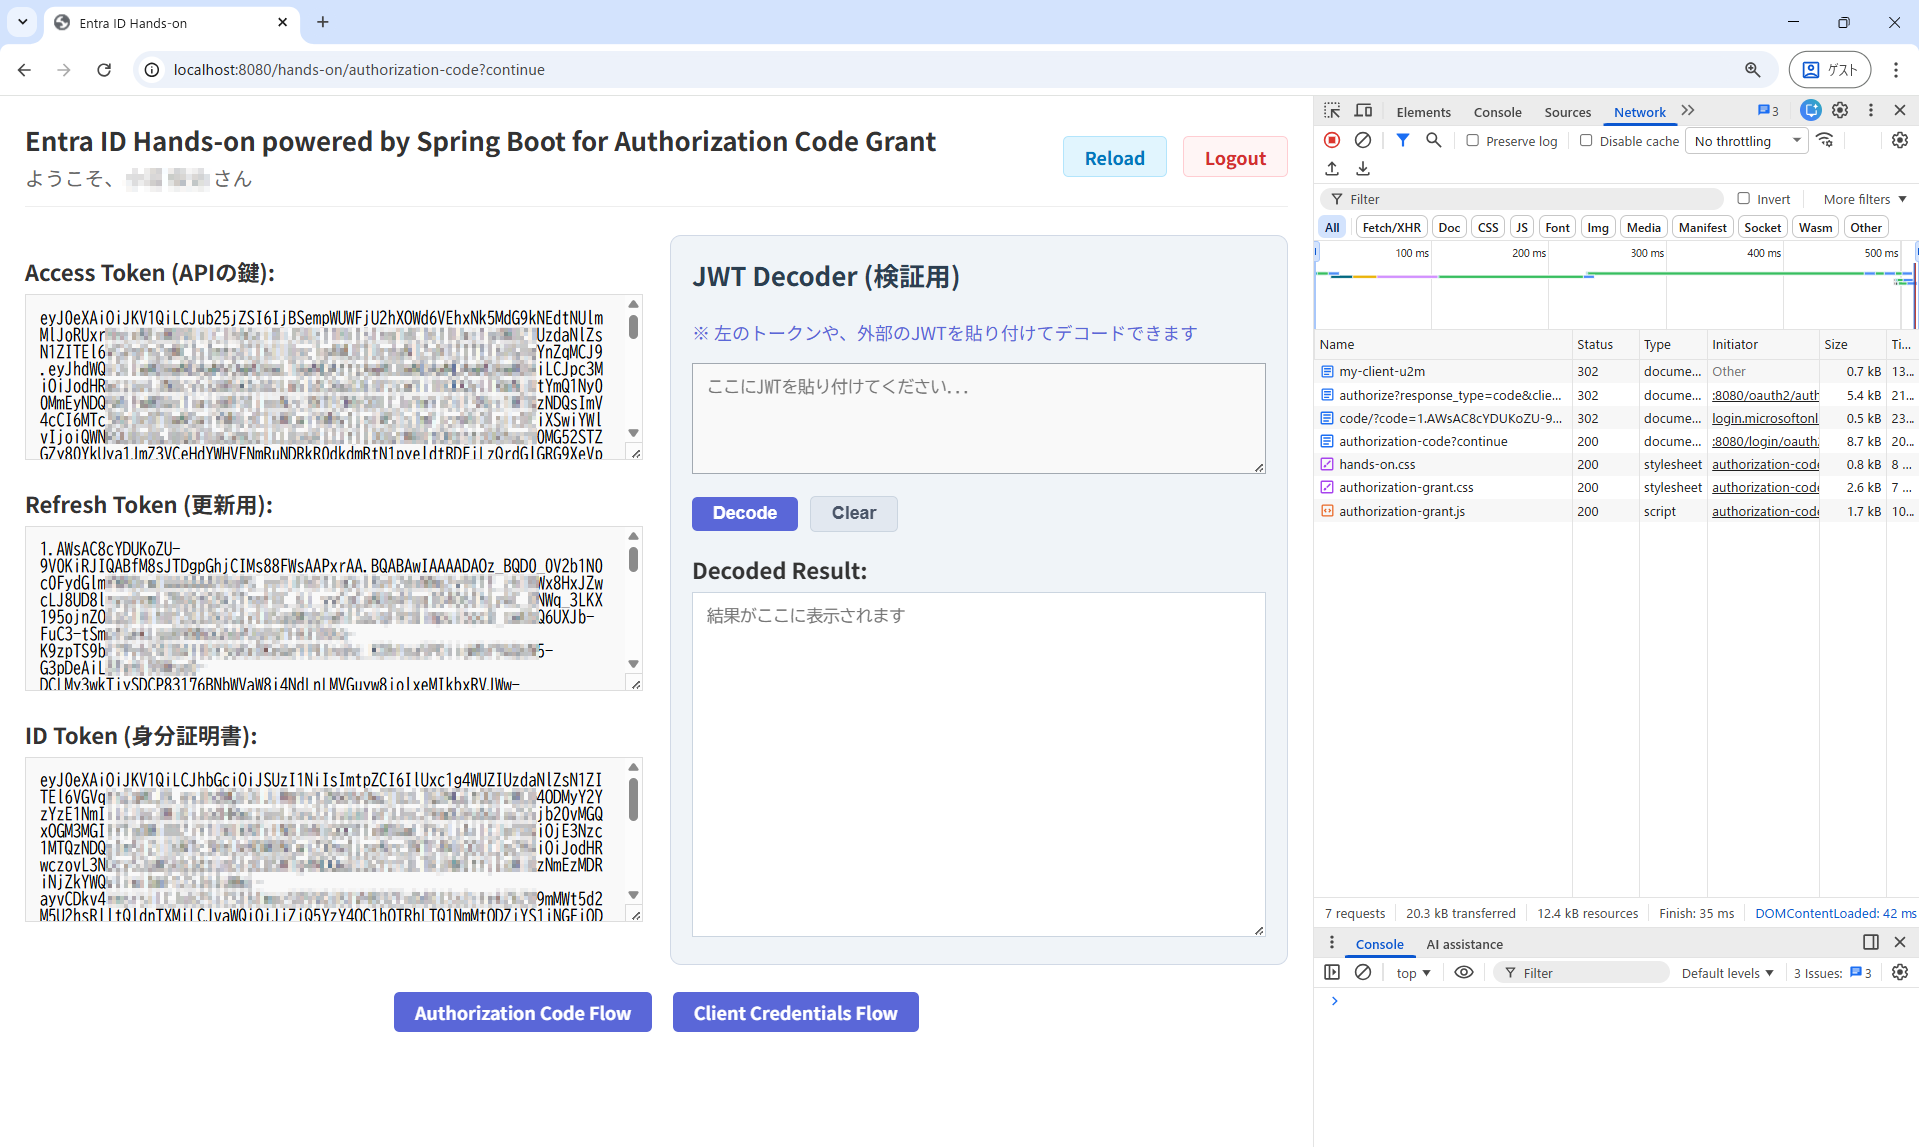
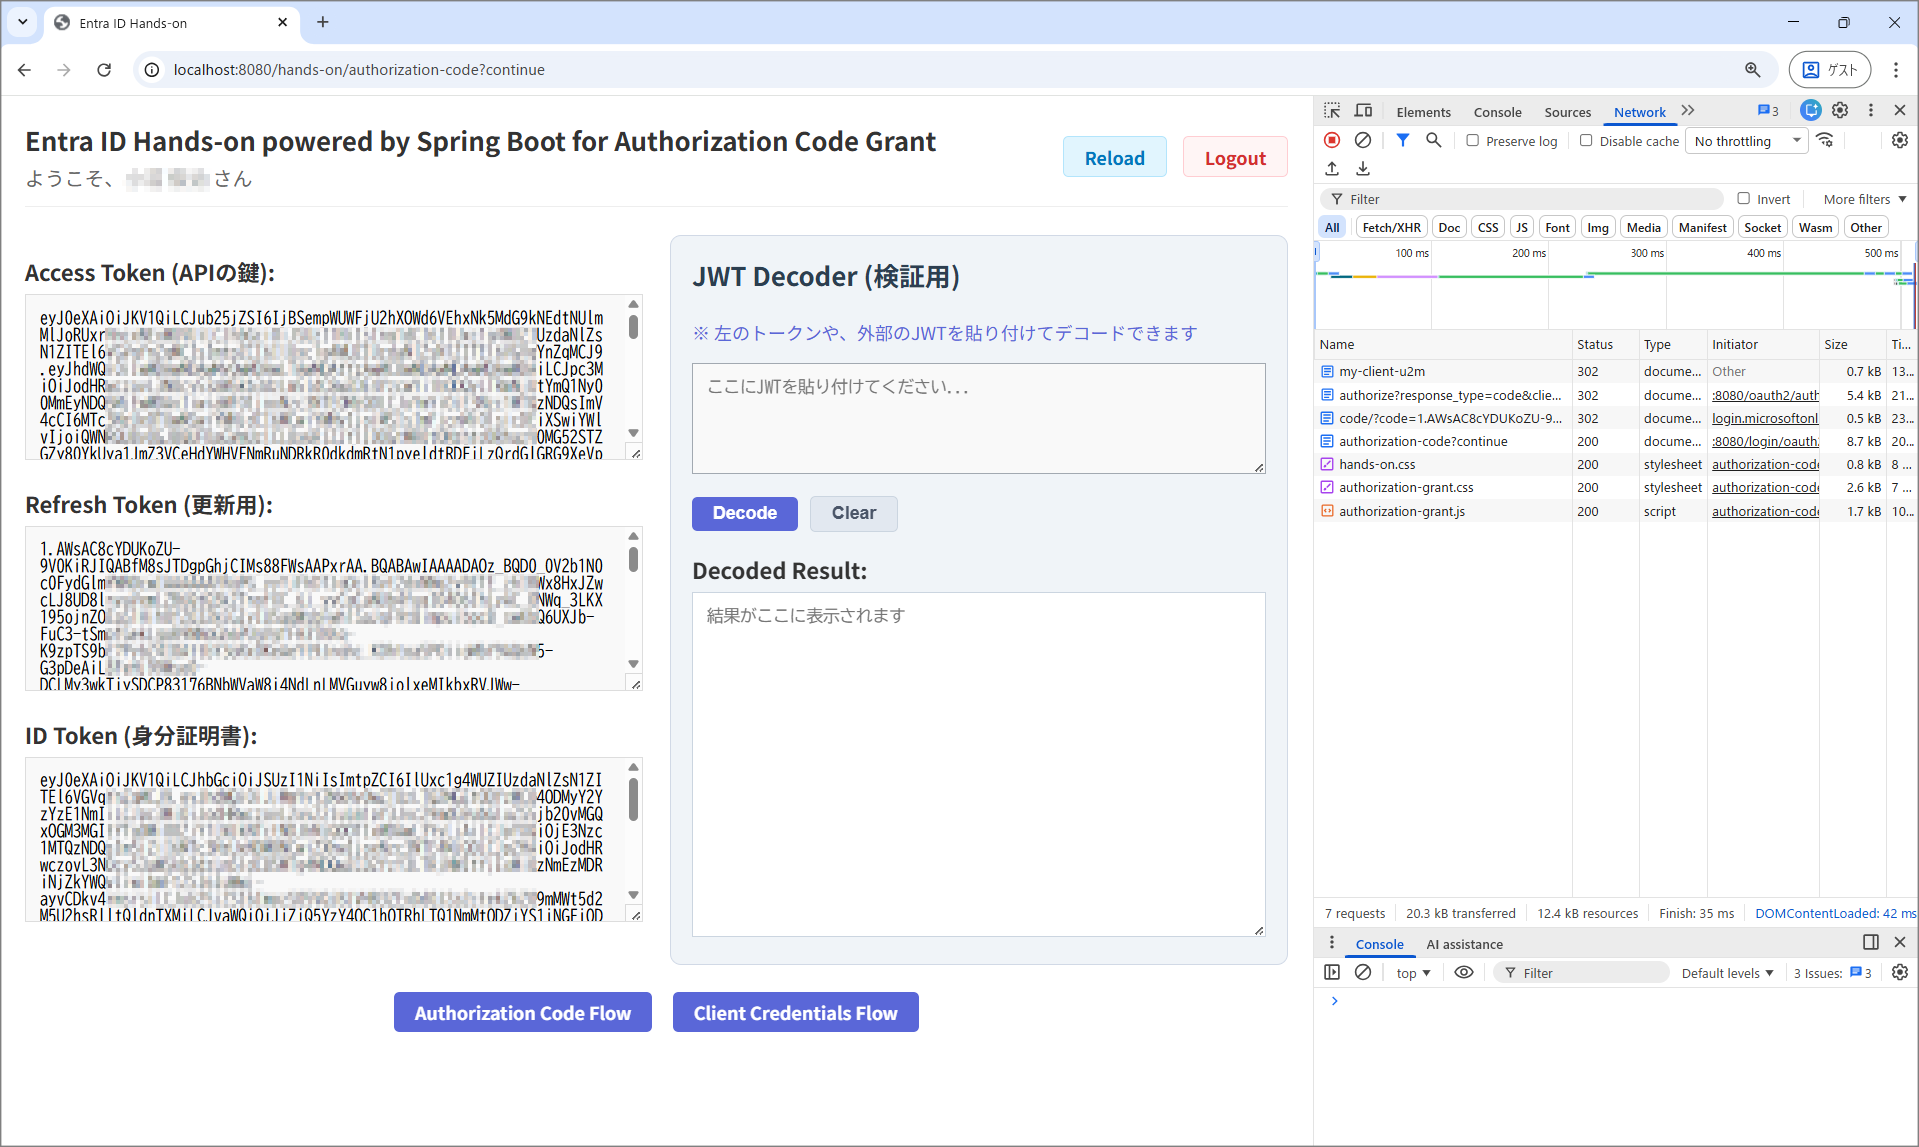
wrote a description of how to experience the client credentials grant

Changed region(s): [[0.9838, 0.9765, 1.0, 1.0], [0.9838, 0.0, 1.0, 0.0305], [0.0, 0.9765, 0.0307, 1.0]]

diff --git a/ms-entra-id-free/msal/README.md b/ms-entra-id-free/msal/README.md
@@ -191,7 +191,11 @@ Entra ID Free 版で事前準備をします。
 
 1. 体験用の Web アプリが表示されると同時に、Access Token が取得されています。
 
-1. 開発者ツールのネットワークで確認できるように、Client Credentials Grant の場合にはユーザ認証は介在しないので、ブラウザで IdP との連携が無くトークンが取得できていることが確認できます。
+   <img src="./image/demo_201.png" width="600">
+
+1. 開発者ツールのネットワークを表示しながら「Reload」をクリックして確認できるように、Client Credentials Grant の場合にはユーザ認証は介在しないので、ブラウザで IdP との連携が無くてもトークンが取得できていることが確認できます。
+
+   <img src="./image/demo_202.png" width="600">
 
 
 ## 実装の解説
